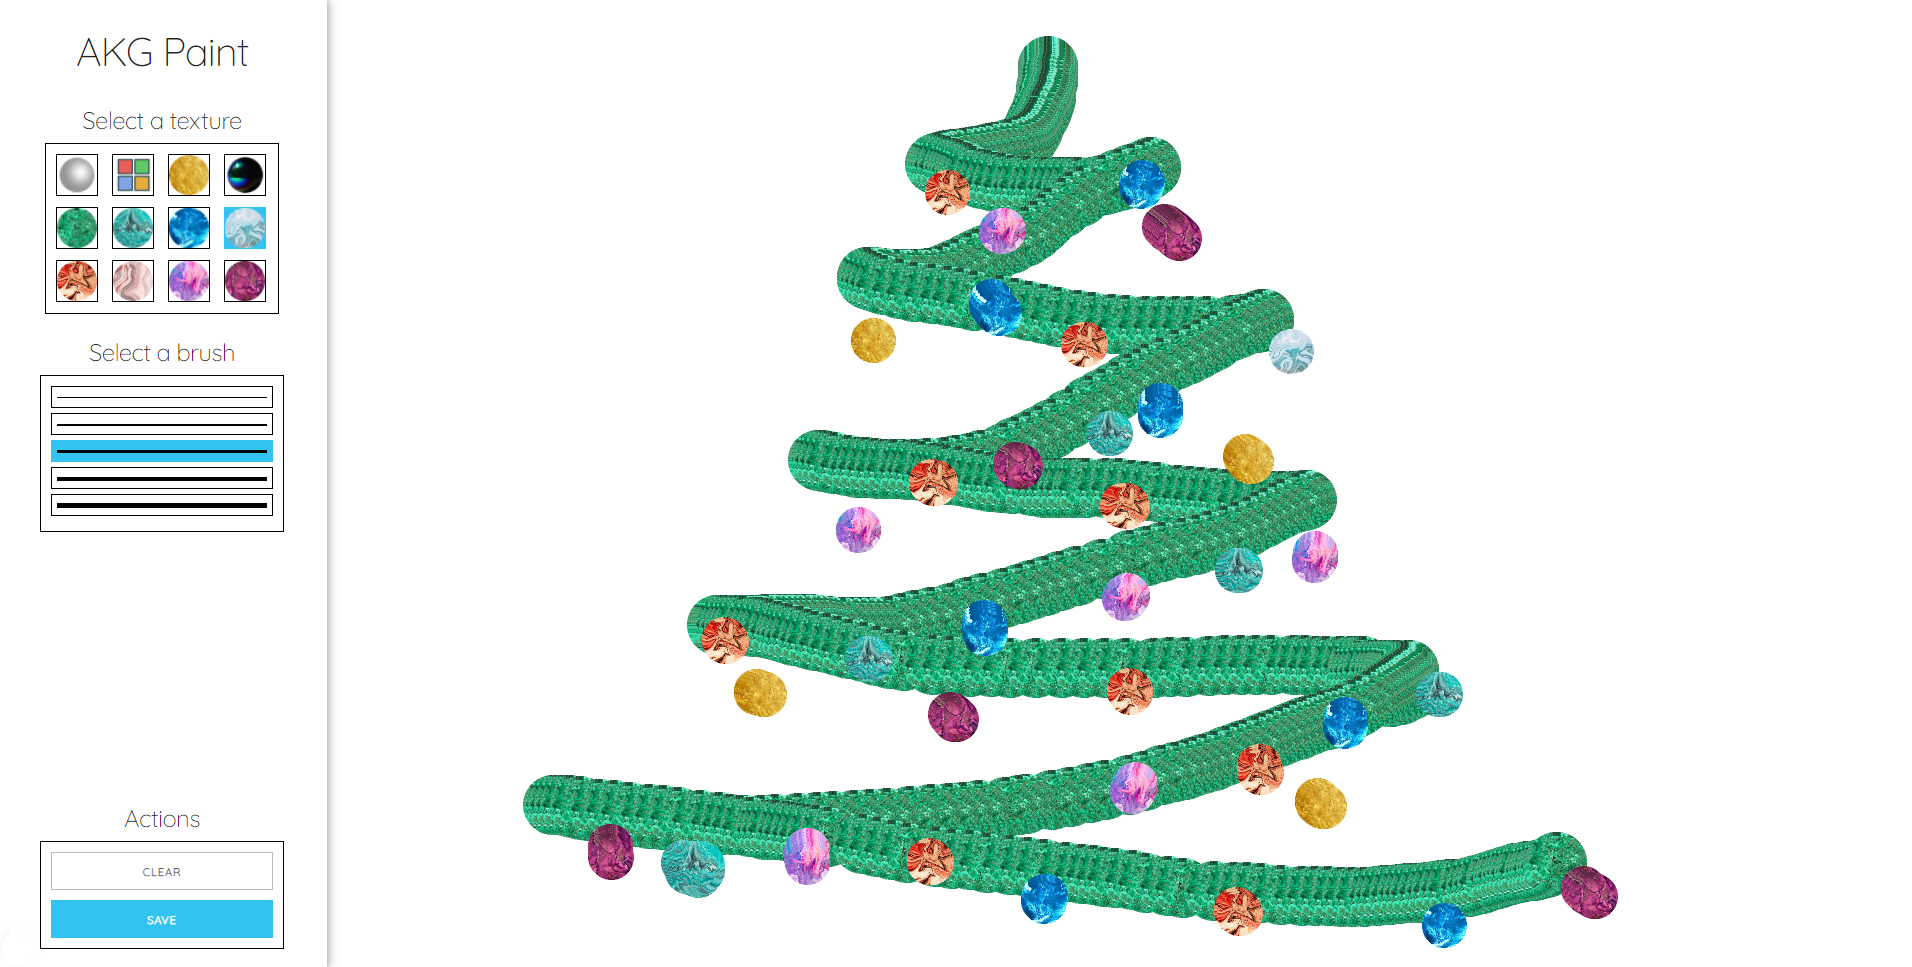
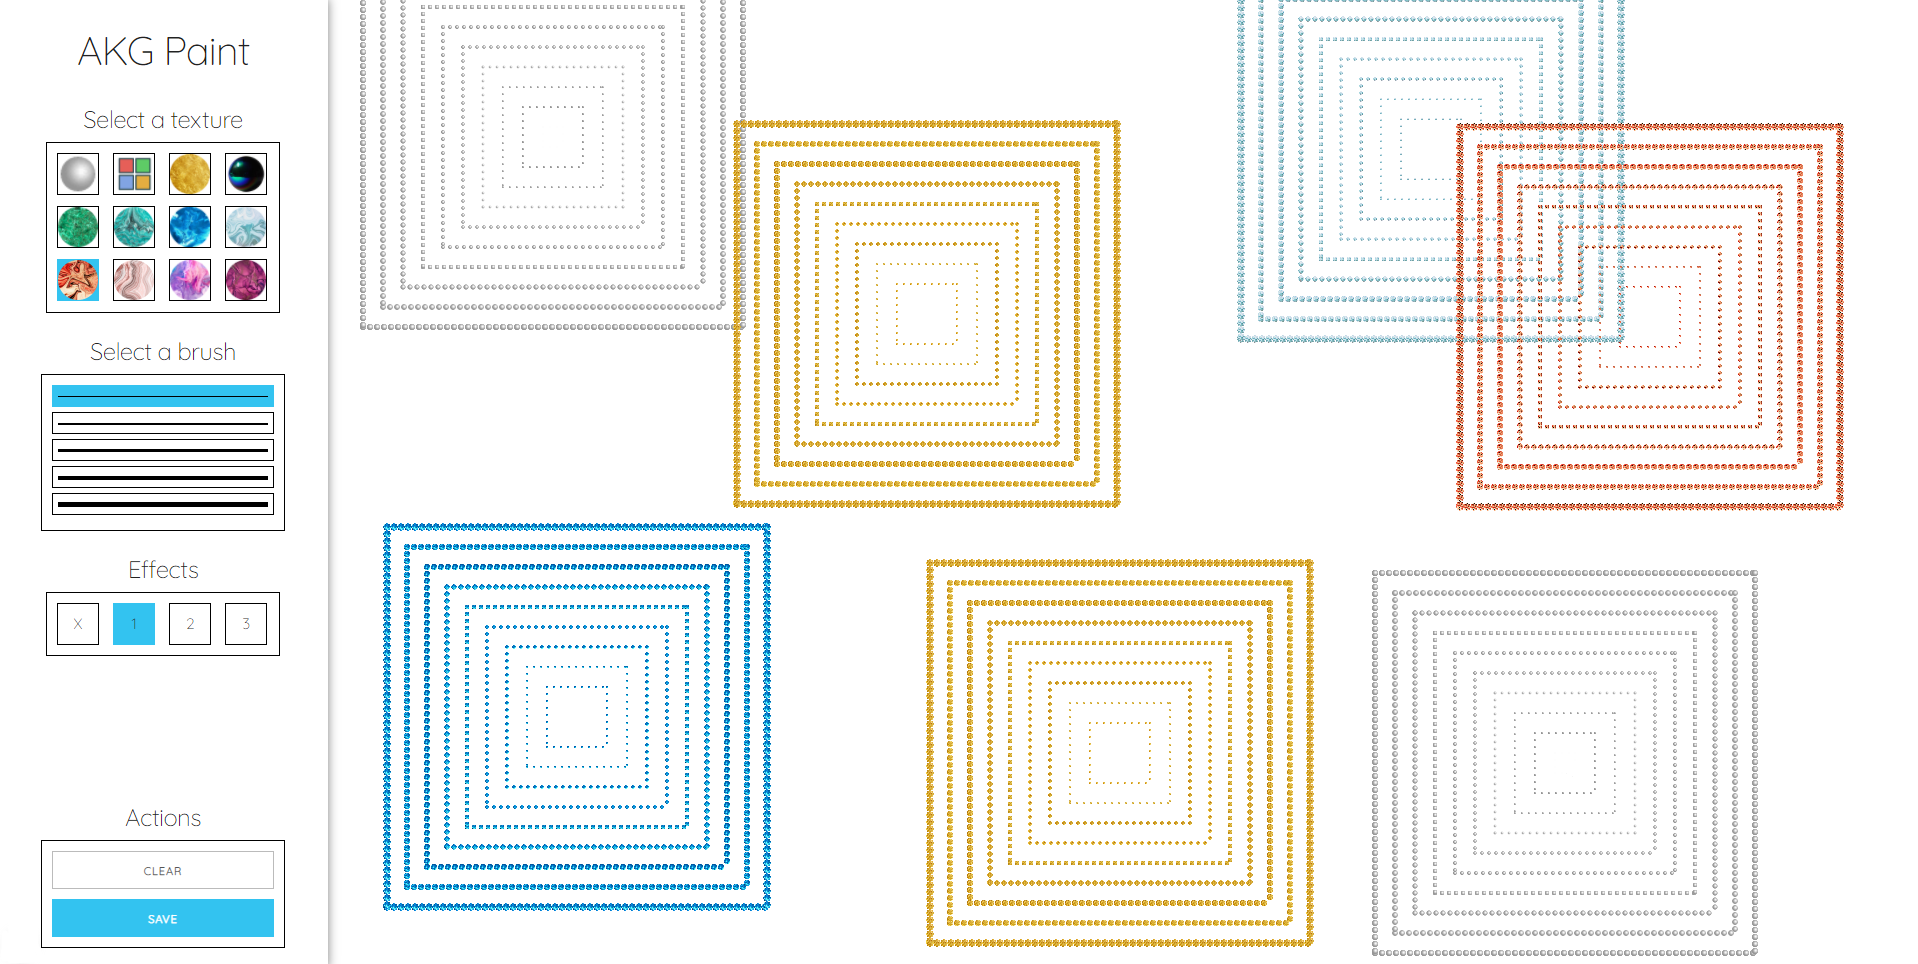
feat: add effects

diff --git a/index.js b/index.js
@@ -3,12 +3,13 @@ window.onload = function () {
   const canvas = document.getElementById("paint-canvas");
   const context = canvas.getContext("2d");
   const boundings = canvas.getBoundingClientRect();
-  console.log(boundings);
 
   let selectedTexture = '1.png';
   let mouseX = 0;
   let mouseY = 0;
-  context.lineWidth = 1; // initial brush width
+  let scale = 1.0;
+  let effectNumber = 0;
+  context.lineWidth = 1;
 
   let isDrawing = false;
 
@@ -27,6 +28,7 @@ window.onload = function () {
     });
   }
 
+
   const brushes = document.getElementsByClassName('brush_wrapper');
 
   for(let i = 0; i <brushes.length; i++) {
@@ -41,6 +43,20 @@ window.onload = function () {
   }
 
 
+  const effects = document.getElementsByClassName('effect');
+
+  for(let i = 0; i <effects.length; i++) {
+    effects[i].addEventListener('click', function() {
+      effectNumber = i;
+
+      for(let j = 0; j < effects.length; j++) {
+        effects[j].classList.remove('active');
+      }
+      effects[i].classList.add('active');
+    });
+  }
+
+
   canvas.addEventListener('mousedown', function(event) {
     setMouseCoordinates(event);
     isDrawing = true;
@@ -48,6 +64,7 @@ window.onload = function () {
     context.beginPath();
     context.moveTo(mouseX, mouseY);
   });
+
 
   canvas.addEventListener('mousemove', function(event) {
     setMouseCoordinates(event);
@@ -57,7 +74,6 @@ window.onload = function () {
       const img = new Image();
       img.src = "textures/" + selectedTexture;
 
-      console.log(img.width, img.height, context.lineWidth);
       context.drawImage(img, mouseX, mouseY, context.lineWidth * 15, context.lineWidth * 15);
       context.stroke();
     }
@@ -68,6 +84,85 @@ window.onload = function () {
     setMouseCoordinates(event);
     isDrawing = false;
   });
+
+
+  canvas.addEventListener('dblclick', function (event) {
+    setMouseCoordinates(event);
+
+    switch(effectNumber) {
+      case 1: drawSquare(); break;
+      case 2: drawExplosion(); break;
+      case 3: drawSpiral(); break;
+      default: return;
+    }
+
+  });
+
+
+  function drawSquare() {
+    for (let step = 10; step < 210; step += 20) {
+
+      for (let x = mouseX - step; x <= mouseX + step; x += 7) {
+        let y1 = mouseY - step;
+        let y2 = mouseY + step;
+        drawSecondEffect(x, y1, 1 + step / 30, 1 + step / 30);
+        drawSecondEffect(x, y2, 1 + step / 30, 1 + step / 30);
+      }
+
+      for (let y = mouseY - step; y <= mouseY + step; y += 7) {
+        let x1 = mouseX - step;
+        let x2 = mouseX + step;
+        drawSecondEffect(x1, y, 1 + step / 30, 1 + step / 30);
+        drawSecondEffect(x2, y, 1 + step / 30, 1 + step / 30);
+      }
+    }
+  }
+
+
+  function drawExplosion() {
+    for (let a = 0; a < Math.PI * 2 + 0.01; a += Math.PI / 4) {
+
+      for (let r = 1.0; r < 628; r *= 1.05) {
+        let x = mouseX + r * Math.sin(a);
+        let y = mouseY + r * Math.cos(a);
+
+        let rr = 5 + (Math.sin(r / 20) + 1) * 20;
+
+        drawSecondEffect(x, y, rr, rr);
+      }
+    }
+  }
+
+
+  function drawSpiral() {
+    let r = 5;
+
+    for (let a = 0; a < 100; a += 0.1) {
+      r *= 1.01;
+      let x = mouseX + r * Math.sin(a);
+      let y = mouseY + r * Math.cos(a);
+      drawSecondEffect(x, y, r / 5, r / 5);
+    }
+  }
+
+
+  function drawFirstEffect(x, y, w, h) {
+    let rw = w * scale;
+    let rh = h * scale;
+
+    const img = new Image();
+    img.src = "textures/" + selectedTexture;
+
+    context.drawImage(img, x - rw / 2, y - rh / 2, rw, rh);
+    scale *= 1.01;
+  }
+
+
+  function drawSecondEffect(x, y, w, h) {
+    const img = new Image();
+    img.src = "textures/" + selectedTexture;
+    context.drawImage(img, x - w / 2, y - h / 2, w, h);
+  }
 
 
   function setMouseCoordinates(event) {

diff --git a/index.html b/index.html
@@ -94,6 +94,24 @@
             </div>
         </div>
 
+        <h5 class="block-heading">Effects</h5>
+        <div class="effects">
+            <div>
+                <div class="effect active" title="none">
+                    <span>X</span>
+                </div>
+                <div class="effect" title="square">
+                    <span>1</span>
+                </div>
+                <div class="effect" title="explosion">
+                    <span>2</span>
+                </div>
+                <div class="effect" title="spiral">
+                    <span>3</span>
+                </div>
+            </div>
+        </div>
+
         <div class="footer-block">
             <h5 class="block-heading">Actions</h5>
             <div class="actions">
@@ -101,7 +119,6 @@
                 <input class="button-primary action-button" type="button" value="Save" id="save">
             </div>
         </div>
-
 
     </div>
 

diff --git a/styles/style.css b/styles/style.css
@@ -90,6 +90,32 @@ body {
     margin-bottom: 0;
 }
 
+.effects {
+    margin: 0 auto 20px;
+    border: 1px solid black;
+    padding: 5px;
+    max-width: 222px;
+}
+
+.effect {
+    margin: 5px;
+    width: 40px;
+    height: 40px;
+    border: 1px solid black;
+    display: inline-block;
+    text-align: center;
+    line-height: 40px;
+}
+
+.effect span {
+    vertical-align: baseline;
+}
+
+.effect.active {
+    border: 1px solid #33C3F0;
+    background: #33C3F0;
+}
+
 .actions {
     margin: 0 auto 20px;
     border: 1px solid black;
